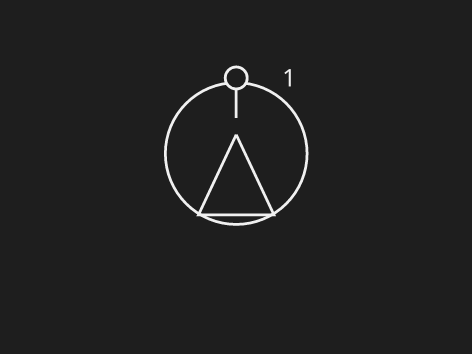
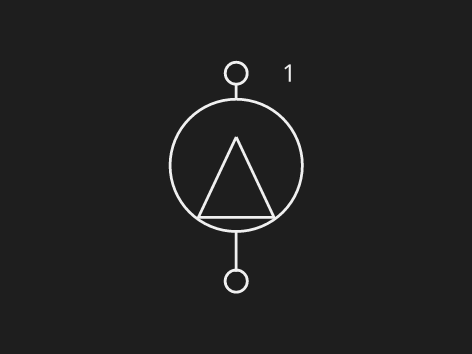
fix(symbology): draw the compressor with its lower intake mark
The reference draws the compressor as a circle with the triangle apex up, a top connection
and a lower intake/condensate circle. Our file had only the top. A second pneumatic port
broke the network (the supply node is chosen from the part's ports), so the lower mark is
drawn by the file and declared as a mark, not a port.

- supply.compressor: top port, lower circle, triangle apex up.
- supply.compressor_adjustable: the same plus the diagonal arrow, as a new file.
- Reviews and images updated; the solver is untouched.
- Full gate: 325 tests, --check-qml 0, --selftest 0.

Changed region(s): [[0.3263, 0.1554, 0.6525, 0.839], [0.4746, 0.3729, 0.5636, 0.5593], [0.5932, 0.1864, 0.6229, 0.2486]]

diff --git a/crates/punchi-fluid-catalog/src/reviews.rs b/crates/punchi-fluid-catalog/src/reviews.rs
@@ -23,6 +23,10 @@ pub const REVIEWS: &[(&str, &str)] = &[
         include_str!("../../../assets/symbols/review/supply.compressor.md"),
     ),
     (
+        "supply.compressor_adjustable",
+        include_str!("../../../assets/symbols/review/supply.compressor_adjustable.md"),
+    ),
+    (
         "supply.network",
         include_str!("../../../assets/symbols/review/supply.network.md"),
     ),

diff --git a/crates/punchi-fluid-catalog/src/builtin.rs b/crates/punchi-fluid-catalog/src/builtin.rs
@@ -13,6 +13,10 @@ pub const FILES: &[(&str, &str)] = &[
         include_str!("../../../assets/catalog/supply.compressor.toml"),
     ),
     (
+        "supply.compressor_adjustable.toml",
+        include_str!("../../../assets/catalog/supply.compressor_adjustable.toml"),
+    ),
+    (
         "supply.network.toml",
         include_str!("../../../assets/catalog/supply.network.toml"),
     ),

diff --git a/assets/symbols/review/supply.compressor_adjustable.md b/assets/symbols/review/supply.compressor_adjustable.md
@@ -1,0 +1,42 @@
+# supply.compressor_adjustable — conformance review
+
+    status: pending-300dpi
+    date: 2026-11-07
+    reviewer: automated pass, unreviewed by a second person
+    function: compressed-air source with an adjustable delivery
+
+## Provenance
+
+Geometry is hand-written in `assets/catalog/supply.compressor_adjustable.toml`. No third-party asset, no trace, no
+scan: the shape is drawn from the requirement the sheet states, not copied from a picture.
+
+## Automated checks — `punchi-fluid-catalog` symbol lint
+
+| Rule | Result |
+|---|---|
+| Geometry inside the box, no degenerate primitive | pass |
+| Every line declares its class | pass |
+| Every port used and numbered | pass (port 1, the delivery) |
+
+## Visual check
+
+| Requirement | Result | Evidence |
+|---|---|---|
+| The gas source is a circle with an **outline** triangle inside it | pass | a filled triangle is the hydraulic source, so the fill is a medium and not a style |
+| The triangle stands on its base line inside the circle | pass | equilateral, base 0.364 of the box, height 0.33 |
+| The delivery leaves the top through a stem ending in a connection circle | pass | stem above the circle, open circle at the port |
+| The triangle inside the circle points up, to its delivery | pass | apex up, the air leaves through the point |
+| The connection circle marks the port | pass | drawn by the renderer at ports 1 and 2 |
+| The diagonal arrow marks the adjustable delivery | pass | the arrow through the circle |
+| The bottom intake mark is drawn, as the reference does | pass | the stem and circle, declared as a mark, not a port |
+| Legible at palette size | pass | `catalog-dark.png` |
+
+## What is still open
+
+- 300 dpi render and a second reader's signature.
+- The compressor is modelled as a constant-pressure source: the real machine's delivery curve
+  is not modelled.
+
+## Images
+
+- `supply.compressor_adjustable-light.png`, `supply.compressor_adjustable-dark.png`

diff --git a/assets/symbols/review/supply.compressor.md b/assets/symbols/review/supply.compressor.md
@@ -26,14 +26,16 @@ scan: the shape is drawn from the requirement the sheet states, not copied from 
 | The triangle stands on its base line inside the circle | pass | equilateral, base 0.364 of the box, height 0.33 |
 | The delivery leaves the top through a stem ending in a connection circle | pass | stem above the circle, open circle at the port |
 | The triangle inside the circle points up, to its delivery | pass | apex up, the air leaves through the point |
-| The connection circle marks the port | pass | drawn by the renderer at port 1, not by the file |
+| The connection circle marks the port | pass | drawn by the renderer at ports 1 and 2 |
+| The bottom intake mark is drawn, as the reference does | pass | the stem and circle, declared as a mark, not a port |
 | Legible at palette size | pass | `catalog-dark.png` |
 
 ## What is still open
 
 - 300 dpi render and a second reader's signature.
 - The compressor is modelled as a constant-pressure source: the real machine's delivery curve
-  is not modelled.
+  is not modelled. The bottom circle is the reference's intake/condensate mark; this model
+  has one supply port, so it is drawn but not connected.
 
 ## Images
 
